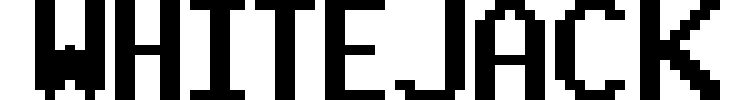
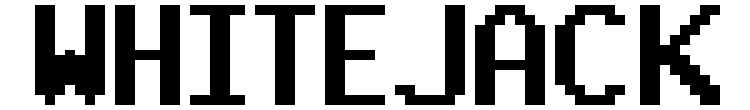
set name game

diff --git a/src/GUI/StartMenu.java b/src/GUI/StartMenu.java
@@ -46,7 +46,7 @@ public class StartMenu extends JFrame{
     void nameGame(){
         nametopic = new JLabel();
         nametopic.setIcon(nTopic);
-        nametopic.setBounds(100, 25, 750, 100);
+        nametopic.setBounds(100, 25, 750, 110);
     }
 
     void btnClick(){
@@ -69,7 +69,7 @@ public class StartMenu extends JFrame{
         iconStart_Click = new ImageIcon(new ImageIcon("asset/image/Start-Button-Click.png").getImage().getScaledInstance(275, 115, DO_NOTHING_ON_CLOSE));
         iconStop = new ImageIcon(new ImageIcon("asset/image/Quit-Button.png").getImage().getScaledInstance(275, 115, DO_NOTHING_ON_CLOSE));
         iconStop_Click = new ImageIcon(new ImageIcon("asset/image/Quit-Buttom_Click.png").getImage().getScaledInstance(275, 115, DO_NOTHING_ON_CLOSE));
-        nTopic = new ImageIcon(new ImageIcon("asset/image/Name-Topic.png").getImage().getScaledInstance(750, 100, DO_NOTHING_ON_CLOSE));
+        nTopic = new ImageIcon(new ImageIcon("asset/image/name-topic.png").getImage().getScaledInstance(750, 110, DO_NOTHING_ON_CLOSE));
         hiImg = new ImageIcon(new ImageIcon("asset/image/king-heart-meme.jpg").getImage().getScaledInstance(1008, 1040, DO_NOTHING_ON_CLOSE));
     }
 
@@ -85,12 +85,12 @@ public class StartMenu extends JFrame{
         mainFrame.add(startClick);
         mainFrame.add(nametopic);
         mainFrame.setIcon(hiImg);
-        Sound.Playmusics("asset/sound/soundbackground.wav");
+        // Sound.Playmusics("asset/Sound/soundbackground.wav");
         
 
-        frame.add(mainFrame);
         frame.add(demoP1.getMainFrame());
         frame.add(demoP2.getMainFrame());
+        frame.add(mainFrame);
         frame.setVisible(true);
         frame.setLocationRelativeTo(null);
     }
@@ -133,9 +133,9 @@ public class StartMenu extends JFrame{
                         public void run() {
                             startClick.setIcon(iconStart);
                             mainFrame.setVisible(false);
-                            //demoP1.getMainFrame().setVisible(true);
-                            Sound.stopMusic();
-                             demoP2.getMainFrame().setVisible(true);
+                            demoP1.getMainFrame().setVisible(true);
+                            // Sound.stopMusic();
+                            // demoP2.getMainFrame().setVisible(true);
                             frame.repaint();
                         }    
                     },1000);
